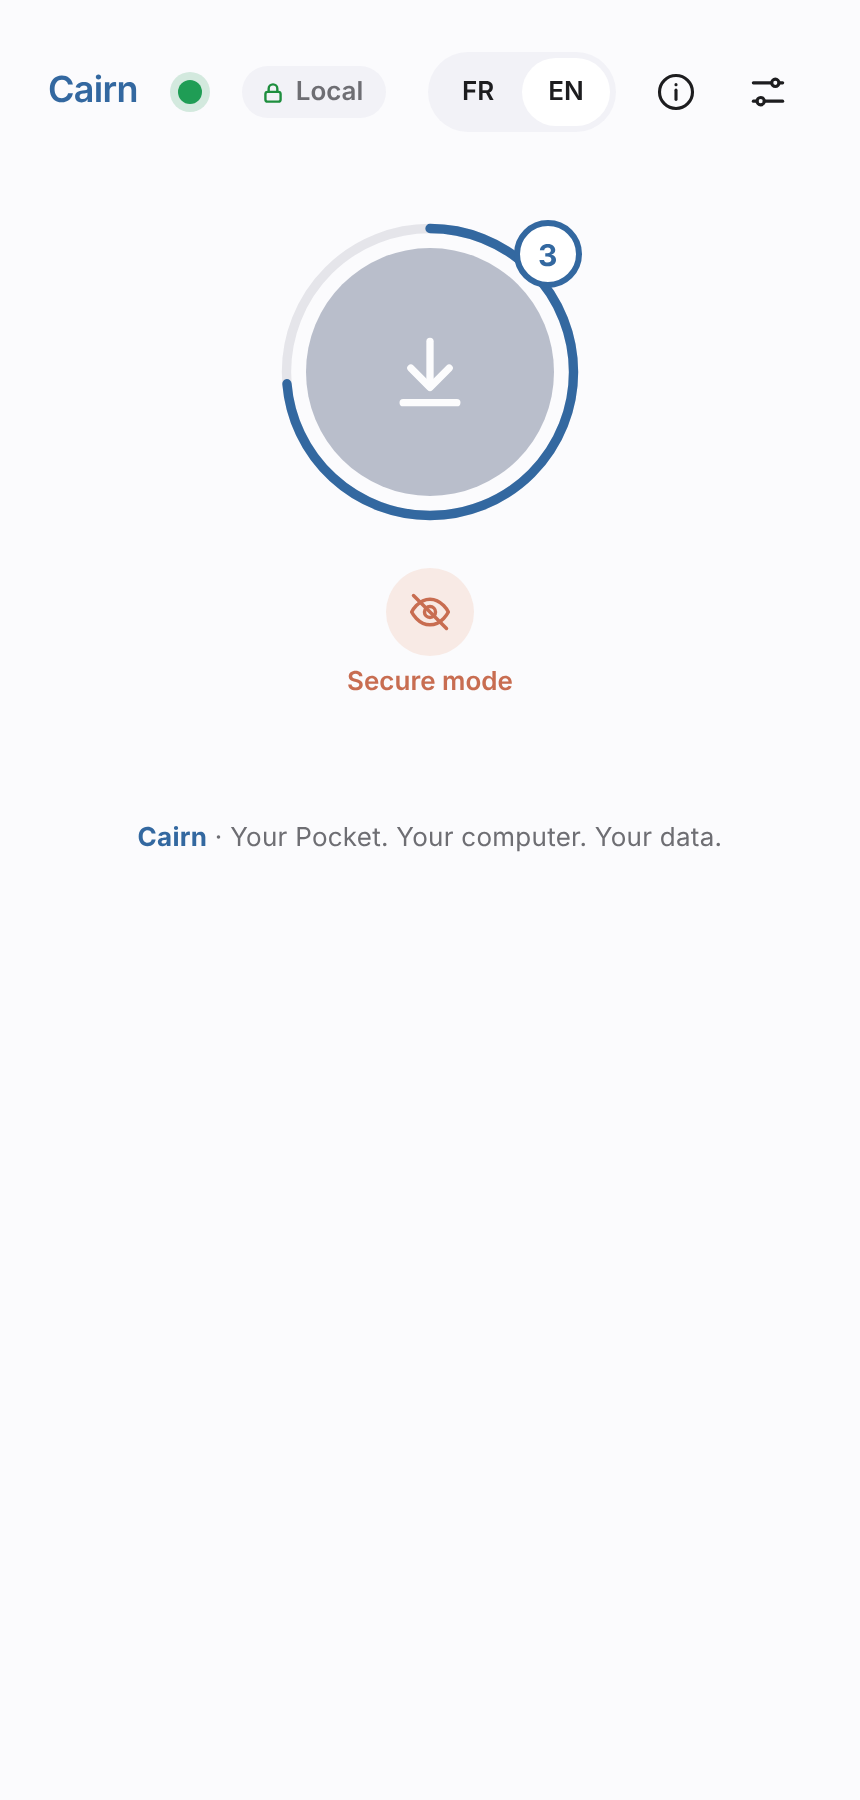
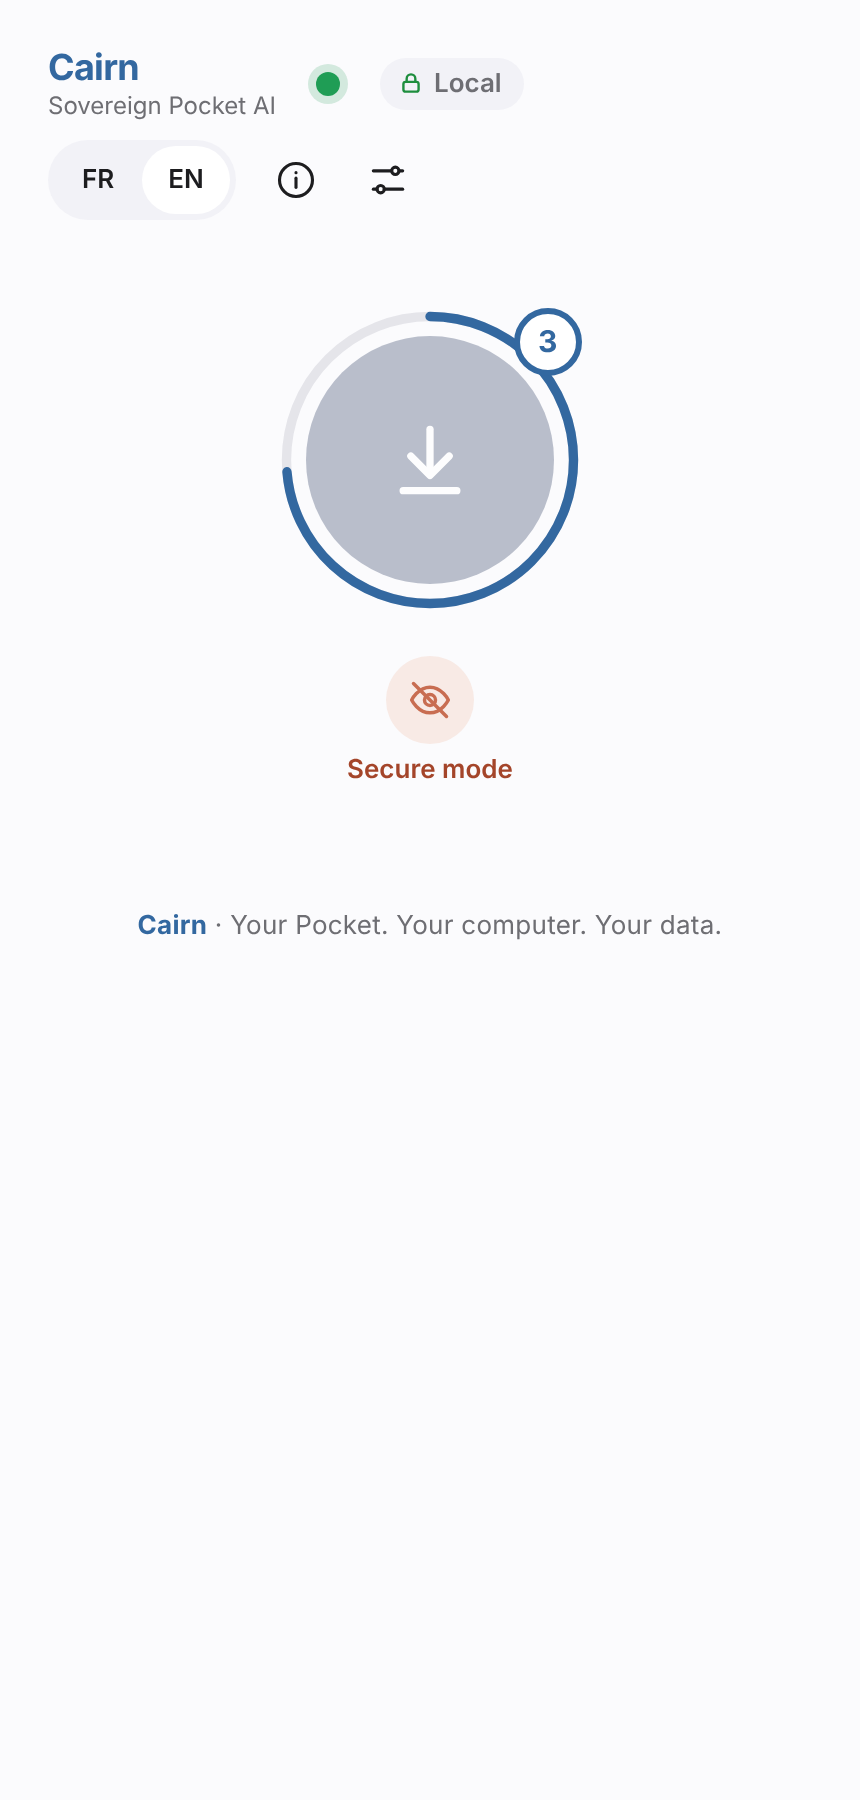
About: brand in bold with tagline in the header, referral link in orange, QR code removed, sober description
Claude-Session: https://claude.ai/code/session_011cjUvj5utwUPtNVyi6uca5

diff --git a/cairn/web/app.js b/cairn/web/app.js
@@ -6,10 +6,10 @@
       brand: "Cairn · Pocket AI souverain", components: "Composants", checkUpd: "Rechercher une mise à jour",
       upToDate: "À jour", checking: "Vérification…", verIs: "Version ", updAvail: "Mise à jour disponible : ", updFail: "Vérification impossible", updFlash: "Relance la commande d’installation",
       about: "À propos", aboutTagline: "Pocket AI souverain",
-      aboutText: "Transcrit et résume tes enregistrements Pocket sur ton ordinateur. Aucun cloud : rien ne sort.",
+      aboutText: "Importe, transcris et résume tes enregistrements Pocket, entièrement sur cet ordinateur. Aucun compte, aucun cloud, aucune télémétrie.",
       aboutLegal: "v{v} · © 2026 Yanick Imhof · Licence MIT · Non affilié à Pocket.", uiLang: "Langue de l’interface",
       polish: "Réécrire le transcript", polishHint: "Plus lisible, mais nettement plus lent", off: "Non", on: "Oui",
-      processedIn: "traité en", notInstalled: "Non installé", getIt: "Installer", refText: "Offrir un Pocket : 10 % de réduction", refQr: "QR code", refNote: "Lien de parrainage facultatif. L’offre dépend uniquement de Pocket et peut changer.",
+      processedIn: "traité en", notInstalled: "Non installé", getIt: "Installer", refText: "Offrir un Pocket : 10 % de réduction", refNote: "Lien de parrainage facultatif. L’offre dépend uniquement de Pocket et peut changer.",
       models: "Modèles", modelsHint: "Choisir ou ajouter des modèles", modelsSpeech: "Transcription", modelsLlm: "Résumés",
       tagline: "Votre Pocket. Votre ordinateur. Vos données.", mUse: "Utiliser", mRemove: "Supprimer ce modèle", mRemoveConfirm: "Supprimer {name} de cet ordinateur ? Vous pourrez le télécharger à nouveau.", mInUse: "Utilisé", mInstall: "Installer", mTier: { light: "Léger", standard: "Standard", high: "Élevé" },
       mRam: "{n} Go de mémoire conseillés", mConfirm: "Télécharger {name} ({size}) ? Une connexion internet est utilisée pour ce seul téléchargement.",
@@ -44,10 +44,10 @@
       brand: "Cairn · Sovereign Pocket AI", components: "Components", checkUpd: "Check for updates",
       upToDate: "Up to date", checking: "Checking…", verIs: "Version ", updAvail: "Update available: ", updFail: "Check failed", updFlash: "Run the install command again",
       about: "About", aboutTagline: "Sovereign Pocket AI",
-      aboutText: "Transcribes and summarizes your Pocket recordings on your computer. No cloud: nothing leaves it.",
+      aboutText: "Import, transcribe and summarize your Pocket recordings, entirely on this computer. No account, no cloud, no telemetry.",
       aboutLegal: "v{v} · © 2026 Yanick Imhof · MIT license · Not affiliated with Pocket.", uiLang: "Interface language",
       polish: "Polish the transcript", polishHint: "More readable, but much slower", off: "Off", on: "On",
-      processedIn: "processed in", notInstalled: "Not installed", getIt: "Install", refText: "Get a Pocket: 10 % off", refQr: "QR code", refNote: "Optional referral link. The offer is set by Pocket alone and may change.",
+      processedIn: "processed in", notInstalled: "Not installed", getIt: "Install", refText: "Get a Pocket: 10 % off", refNote: "Optional referral link. The offer is set by Pocket alone and may change.",
       models: "Models", modelsHint: "Choose or add models", modelsSpeech: "Transcription", modelsLlm: "Summaries",
       tagline: "Your Pocket. Your computer. Your data.", mUse: "Use", mRemove: "Remove this model", mRemoveConfirm: "Remove {name} from this computer? You can download it again later.", mInUse: "In use", mInstall: "Install", mTier: { light: "Light", standard: "Standard", high: "High" },
       mRam: "{n} GB of memory advised", mConfirm: "Download {name} ({size})? An internet connection is used for this download only.",
@@ -296,9 +296,8 @@
     h += viewPrivacy(t);
     var ref = S.about && S.about.referral;
     if (ref) {
-      h += '<div class="ref"><a href="' + esc(ref) + '" target="_blank" rel="noopener noreferrer"' + tip(t.refNote) + ">" + esc(t.refText) + " ↗</a>" +
-        '<button type="button" class="reflink" data-a="refQr"' + tip(t.refQr) + ">" + esc(t.refQr) + "</button></div>";
-      if (S.refQr) { h += '<div class="qr"><img src="/referral-qr.svg" width="112" height="112" alt="' + esc(t.refQr) + '"><div class="small">' + esc(t.refNote) + "</div></div>"; }
+      h += '<div class="ref"><a href="' + esc(ref) + '" target="_blank" rel="noopener noreferrer">' + esc(t.refText) + " ↗</a>" +
+        '<div class="small">' + esc(t.refNote) + "</div></div>";
     }
     h += '<div class="hr"></div><div class="legal">' + esc(t.aboutLegal.replace("{v}", (S.server && S.server.version) || "")) + "</div></div>";
     return h;
@@ -397,7 +396,7 @@
     else if (st.totals.notes) { ring = st.totals.done / st.totals.notes; }
     var connected = st.pocket.connected;
     var canImport = !job.running && (connected || st.totals.waiting > 0);
-    var h = '<main class="wrap"><div class="head"><div class="row gap12"><h1 class="brand"' + tip(t.brand) + ">Cairn</h1>";
+    var h = '<main class="wrap"><div class="head"><div class="row gap12"><div class="bw"><h1 class="brand"' + tip(t.brand) + '>Cairn</h1><div class="sub">' + esc(t.aboutTagline) + "</div></div>";
     h += '<button type="button" class="dotbtn"' + tip(connected ? t.connected : t.disconnected) + '><span class="dot" style="background:' + (connected ? "var(--green)" : "var(--orange)") + ";box-shadow:0 0 0 4px " + (connected ? "rgba(31,157,85,.18)" : "rgba(200,109,81,.24)") + '"></span></button>';
     h += '<span class="pill"' + tip(t.localHint) + ">" + I.lock + esc(t.local) + "</span></div>";
     h += '<div class="row" style="gap:2px"><div style="margin-right:6px"' + tip(t.uiLang) + ">" + segLang("ui", ui(), "s34", t, "") + "</div>";
@@ -566,7 +565,6 @@
       S.modelsOpen = !S.modelsOpen; S.mAsk = null;
       if (S.modelsOpen) { loadModels(); }
     },
-    refQr: function () { S.refQr = !S.refQr; },
     fixModel: function () { S.aboutOpen = false; S.settingsOpen = true; S.modelsOpen = true; loadModels(); },
     procOne: function (v, id) { noteAction(id, "process"); },
     skipOne: function (v, id) { noteAction(id, "skip"); },

diff --git a/cairn/web/style.css b/cairn/web/style.css
@@ -27,7 +27,7 @@ svg{flex-shrink:0}
 .setrow{display:flex;align-items:center;justify-content:space-between;gap:12px;min-height:64px}
 .hr{height:1px;background:var(--line)}
 .about{padding:24px 24px 22px;display:flex;flex-direction:column;gap:14px}
-.about .t{font-size:22px;font-weight:600;letter-spacing:-.02em;color:var(--blue)}
+.about .t{font-size:22px;font-weight:700;letter-spacing:-.02em;color:var(--blue)}
 .small{font-size:14px;color:var(--mute)}.text{font-size:15px;color:var(--ink2);line-height:1.5}
 .legal{font-size:13px;color:var(--mute);line-height:1.5}
 .comp{display:grid;grid-template-columns:minmax(0,1fr) auto 64px 20px;align-items:center;gap:8px;font-size:14px;color:var(--ink2)}
@@ -79,12 +79,10 @@ svg{flex-shrink:0}
 .mtag{font-size:13px;font-weight:600;color:#1B7F3B}
 .pbar{display:block;height:3px;border-radius:2px;background:var(--soft);margin-top:6px;overflow:hidden}.pbar>span{display:block;height:100%;background:var(--blue);transition:width .6s ease}
 .minfo{flex:1;min-width:0}.mtag,.mbtn{flex-shrink:0;white-space:nowrap}
-.ref{display:flex;align-items:center;justify-content:space-between;gap:12px;font-size:13px}.ref a{color:var(--mute);text-decoration:none}.ref a:hover{color:var(--blue);text-decoration:underline}
-.reflink{border:0;background:transparent;color:var(--mute);font-size:13px;cursor:pointer;padding:4px 0;font-family:inherit}.reflink:hover{color:var(--blue)}
-.qr{display:flex;align-items:center;gap:14px}.qr img{border-radius:10px;border:1px solid var(--line);padding:6px;background:#fff}
+.ref{display:flex;flex-direction:column;gap:3px;font-size:13px}.ref a{color:var(--orange-ink);font-weight:600;text-decoration:none}.ref a:hover{text-decoration:underline}
 .mrow .ib{width:36px;height:36px}
 .foot{margin:28px 0 8px;text-align:center;font-size:13px;color:var(--mute);letter-spacing:.01em}.foot b{color:var(--blue);font-weight:700}
-h1.brand{margin:0;font-weight:inherit}
-:root{--warn:#A4452A}
+h1.brand{margin:0;font-weight:700}.bw{display:flex;flex-direction:column;line-height:1.2}.bw .sub{font-size:12px;color:var(--mute)}
+:root{--warn:#A4452A;--orange-ink:#B4541A}
 .comp .cn{overflow:hidden;text-overflow:ellipsis;white-space:nowrap}
 .priv{display:flex;flex-direction:column;gap:6px}:root{--green-ink:#17743F}

diff --git a/cairn/server.py b/cairn/server.py
@@ -20,7 +20,7 @@ from urllib.parse import parse_qs, quote, urlparse
 from . import catalog, config, jobs, llm, models, netguard, notes, pocket, privacy, render
 
 WEB = Path(__file__).parent / "web"
-STATIC = {"/": "index.html", "/index.html": "index.html", "/app.js": "app.js", "/style.css": "style.css", "/favicon.svg": "favicon.svg", "/referral-qr.svg": "referral-qr.svg",
+STATIC = {"/": "index.html", "/index.html": "index.html", "/app.js": "app.js", "/style.css": "style.css", "/favicon.svg": "favicon.svg",
           "/manifest.webmanifest": "manifest.webmanifest", "/icon-192.png": "icon-192.png", "/icon-512.png": "icon-512.png"}
 PUBLIC = {"/favicon.svg", "/manifest.webmanifest", "/icon-192.png", "/icon-512.png"}  # nothing private: the browser fetches them without the session cookie
 COOKIE = "cairn_session"

diff --git a/tests/test_app.py b/tests/test_app.py
@@ -305,8 +305,7 @@ class AppTest(unittest.TestCase):
         self.assertEqual(names, sorted(names, key=str.lower))
         self.assertTrue(all({"name", "ver", "size", "ok"} <= set(c) for c in data["components"]))
         self.assertTrue(data["referral"].startswith("https://referral.heypocketai.com/"))
-        status, svg = self.c.call("GET", "/referral-qr.svg")
-        self.assertEqual(status, 200)
+        self.assertEqual(self.c.call("GET", "/referral-qr.svg")[0], 404)
 
 
 class UnitTest(unittest.TestCase):

diff --git a/docs/PRIVACY.md b/docs/PRIVACY.md
@@ -22,7 +22,7 @@ Cairn is built on one rule: **your recordings never leave your computer.**
 |---|---|
 | Installation (once) | Downloads of the engines and models (see SECURITY.md) |
 | Everyday use | None |
-| When you ask for it | Download of an optional model (Ollama registry or Hugging Face), after your explicit confirmation in the app. Update check: one request to GitHub. Referral link in **About**: nothing is sent by Cairn; the link opens Pocket's website in your browser only if you click it, and the QR code is a local image. |
+| When you ask for it | Download of an optional model (Ollama registry or Hugging Face), after your explicit confirmation in the app. Update check: one request to GitHub. Referral link in **About**: nothing is sent by Cairn; the link opens Pocket's website in your browser only if you click it. |
 
 Runtime is configured with `HF_HUB_OFFLINE=1` and `DO_NOT_TRACK=1`.
 
